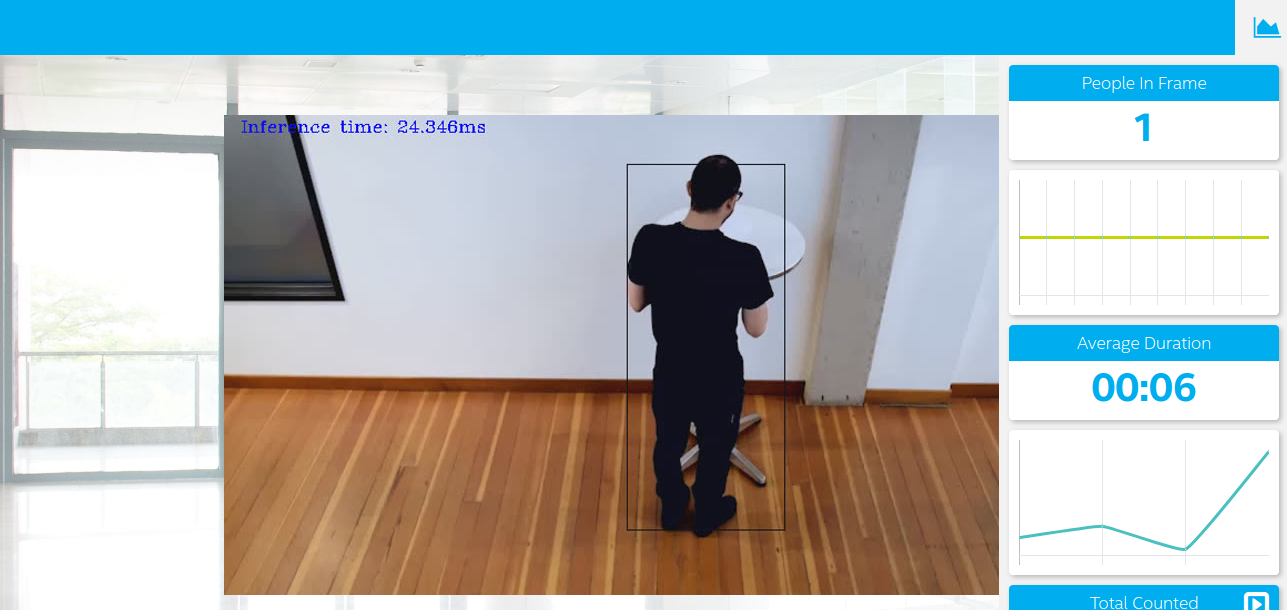
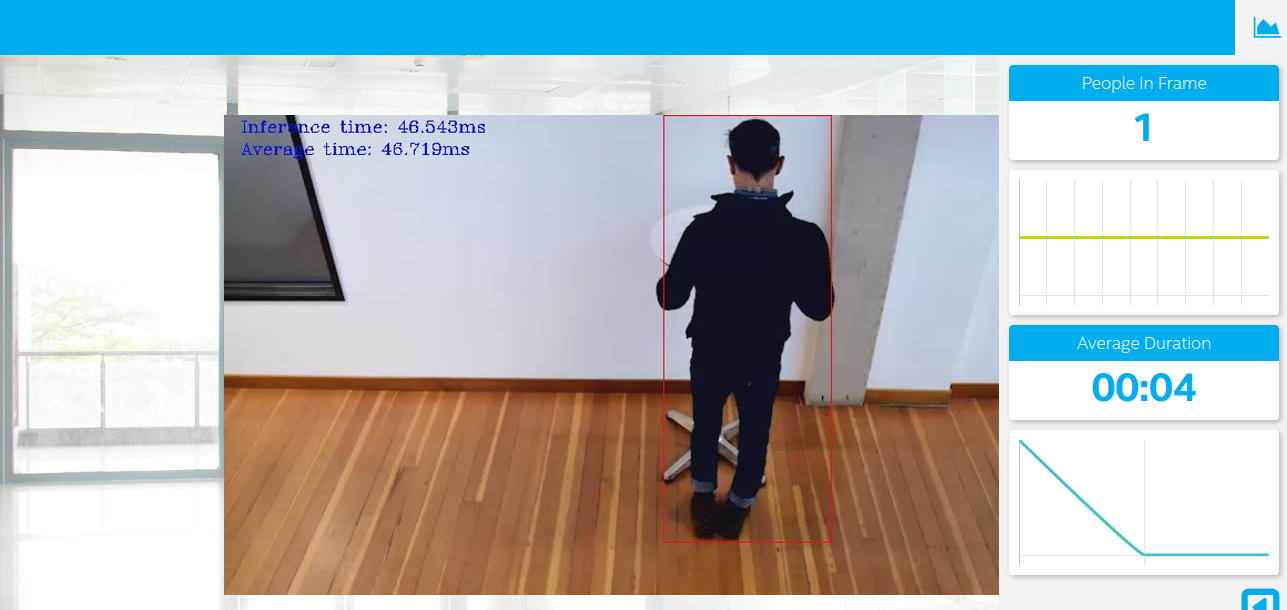
Finalizing for submission 1. Adding bash script to download and convert all used models 2. Modified the stats shown on table in writeup 3. Made code usable in both local and workstation (version difference caused errors)

diff --git a/main.py b/main.py
@@ -42,6 +42,7 @@ MQTT_HOST = IPADDRESS
 MQTT_PORT = 3001
 MQTT_KEEPALIVE_INTERVAL = 60
 
+CPU_EXTENSION = "/opt/intel/openvino/deployment_tools/inference_engine/lib/intel64/libcpu_extension_sse4.so"
 
 def build_argparser():
     """
@@ -55,7 +56,7 @@ def build_argparser():
     parser.add_argument("-i", "--input", required=True, type=str,
                         help="Path to image or video file")
     parser.add_argument("-l", "--cpu_extension", required=False, type=str,
-                        default=None,
+                        default=CPU_EXTENSION,
                         help="MKLDNN (CPU)-targeted custom layers."
                              "Absolute path to a shared library with the"
                              "kernels impl.")
@@ -121,11 +122,12 @@ def infer_on_stream(args, client):
     single_img_flag = False
     total_count = 0
     total_frames = 0
+    total_inference_time = 0
     last_count = 0
     duration_time = 0
     cur_request_id = 0
     ### TODO: Load the model through `infer_network` ###
-    infer_network.load_model(args.model, args.device)
+    infer_network.load_model(args.model, args.device, args.cpu_extension)
     net_input_shape = infer_network.get_input_shape()
     ### TODO: Handle the input stream ###
     video_file = args.input
@@ -174,6 +176,7 @@ def infer_on_stream(args, client):
         if infer_network.wait(cur_request_id) == 0:
             stop_time = time.time() - start_time
             result = infer_network.get_output(cur_request_id)
+            total_frames = total_frames +1
             # print(result)
             # print(result.shape)
             
@@ -182,6 +185,9 @@ def infer_on_stream(args, client):
             # print(classes.shape)
             inference_message = "Inference time: {:.3f}ms".format(stop_time * 1000)
             cv2.putText(frame, inference_message, (15, 15), cv2.FONT_HERSHEY_COMPLEX, 0.5, (255,0,0), 1)
+            total_inference_time =  total_inference_time + stop_time * 1000
+            avg_message = "Average time: {:.3f}ms".format(total_inference_time/total_frames)
+            cv2.putText(frame, avg_message, (15, 35), cv2.FONT_HERSHEY_COMPLEX, 0.5, (255,0,0), 1)
             
             ### TODO: Extract any desired stats from the results ###
             ### TODO: Calculate and send relevant information on ###

diff --git a/inference.py b/inference.py
@@ -56,12 +56,16 @@ class Network:
         self.plugin = IECore()
 
         # Add a CPU extension, if applicable
-        if cpu_extension and "CPU" in device:
+        if os.path.isfile(cpu_extension)  and "CPU" in device:
             self.plugin.add_extension(cpu_extension, device)
 
         # Read the IR as a IENetwork
-        # self.network = IENetwork(model=model_xml, weights=model_bin)
-        self.network = self.plugin.read_network(model=model_xml, weights=model_bin)
+        if os.path.isfile(cpu_extension) :
+            # considring its old openvino versio which requires extentions to be loaded
+            self.network = IENetwork(model=model_xml, weights=model_bin)
+        else:
+            # new openvino versions dont need extention
+            self.network = self.plugin.read_network(model=model_xml, weights=model_bin)
         # Load the IENetwork into the plugin
         self.exec_network = self.plugin.load_network(self.network, device)
 

diff --git a/WRITEUP.md b/WRITEUP.md
@@ -17,8 +17,12 @@ cd models/
 wget http://download.tensorflow.org/models/object_detection/ssd_mobilenet_v1_coco_2018_01_28.tar.gz
 tar -xvzf ssd_mobilenet_v1_coco_2018_01_28.tar.gz
 cd ssd_mobilenet_v1_coco_2018_01_28
-python3 /opt/intel/openvino/deployment_tools/model_optimizer/mo_tf.py --input_model=frozen_inference_graph.pb --transformations_config /opt/intel/openvino/deployment_tools/model_optimizer/extensions/front/tf/ssd_v2_support.json --tensorflow_object_detection_api_pipeline_config pipeline.config --reverse_input_channels --input_shape=[1,300,300,3] --input=image_tensor
 
+# for newer version of openvino
+python3 /opt/intel/openvino/deployment_tools/model_optimizer/mo_tf.py --input_model=frozen_inference_graph.pb --tensorflow_custom_operations_config_update /opt/intel/openvino/deployment_tools/model_optimizer/extensions/front/tf/ssd_v2_support.json --tensorflow_object_detection_api_pipeline_config pipeline.config --reverse_input_channels --input_shape=[1,300,300,3] --input=image_tensor
+
+# for older version of openvino (openvino_2019.3.376)
+python3  /opt/intel/openvino/deployment_tools/model_optimizer/mo.py --input_model=frozen_inference_graph.pb  --tensorflow_object_detection_api_pipeline_config pipeline.config --reverse_input_channels --input_shape=[1,300,300,3] --input=image_tensor --output=detection_scores,detection_boxes,num_detections --tensorflow_use_custom_operations_config /opt/intel/openvino/deployment_tools/model_optimizer/extensions/front/tf/ssd_v2_support.json
 ```
 
 ### Converting SSD MobileNet V2 COCO
@@ -28,7 +32,12 @@ cd models/
 wget http://download.tensorflow.org/models/object_detection/ssd_mobilenet_v2_coco_2018_03_29.tar.gz
 tar -xvzf ssd_mobilenet_v2_coco_2018_03_29.tar.gz
 cd ssd_mobilenet_v2_coco_2018_03_29
+
+# for newer version of openvino
 python3 /opt/intel/openvino/deployment_tools/model_optimizer/mo_tf.py --input_model=frozen_inference_graph.pb --transformations_config /opt/intel/openvino/deployment_tools/model_optimizer/extensions/front/tf/ssd_v2_support.json --tensorflow_object_detection_api_pipeline_config pipeline.config --reverse_input_channels --input_shape=[1,300,300,3] --input=image_tensor --output=detection_classes,detection_scores,detection_boxes,num_detections
+
+# for older version of openvino (openvino_2019.3.376)
+python3 /opt/intel/openvino/deployment_tools/model_optimizer/mo.py --input_model=frozen_inference_graph.pb --tensorflow_use_custom_operations_config /opt/intel/openvino/deployment_tools/model_optimizer/extensions/front/tf/ssd_v2_support.json --tensorflow_object_detection_api_pipeline_config pipeline.config --reverse_input_channels --input_shape=[1,300,300,3] --input=image_tensor --output=detection_classes,detection_scores,detection_boxes,num_detections
 
 ```
 
@@ -39,7 +48,12 @@ cd models/
 wget http://download.tensorflow.org/models/object_detection/faster_rcnn_inception_v2_coco_2018_01_28.tar.gz
 tar -xvzf faster_rcnn_inception_v2_coco_2018_01_28.tar.gz
 cd faster_rcnn_inception_v2_coco_2018_01_28
-python3 /opt/intel/openvino/deployment_tools/model_optimizer/mo_tf.py --input_model frozen_inference_graph.pb --tensorflow_object_detection_api_pipeline_config pipeline.config --transformations_config /opt/intel/openvino/deployment_tools/model_optimizer/extensions/front/tf/faster_rcnn_support.json --reverse_input_channels --input_shape=[1,600,1024,3] --input=image_tensor --output=detection_scores,detection_boxes,num_detections
+
+# for newer version of openvino
+python3 /opt/intel/openvino/deployment_tools/model_optimizer/mo_tf.py --input_model frozen_inference_graph.pb --tensorflow_object_detection_api_pipeline_config pipeline.config --transformations_config /opt/intel/openvino/deployment_tools/model_optimizer/extensions/front/tf/faster_rcnn_support.json --reverse_input_channels --input_shape=[1,600,1024,3] --input=image_tensor --output=detection_scores,detection_boxes,num_detections --data_type=FP16
+
+# for older version of openvino (openvino_2019.3.376)
+python3 /opt/intel/openvino/deployment_tools/model_optimizer/mo_tf.py --input_model frozen_inference_graph.pb --tensorflow_object_detection_api_pipeline_config pipeline.config --tensorflow_use_custom_operations_config /opt/intel/openvino/deployment_tools/model_optimizer/extensions/front/tf/faster_rcnn_support.json --reverse_input_channels --input_shape=[1,600,1024,3] --input=image_tensor --output=detection_scores,detection_boxes,num_detections --data_type=FP16
 
 ```
 
@@ -52,24 +66,27 @@ To convert SSD ResNet50 FPN COCO to IR run the following commands
 cd models/
 wget http://download.tensorflow.org/models/object_detection/ssd_resnet50_v1_fpn_shared_box_predictor_640x640_coco14_sync_2018_07_03.tar.gz
 tar -xvzf ssd_resnet50_v1_fpn_shared_box_predictor_640x640_coco14_sync_2018_07_03.tar.gz
-cd ssd_mobilenet_v1_fpn_shared_box_predictor_640x640_coco14_sync_2018_07_03
-python3 /opt/intel/openvino/deployment_tools/model_optimizer/mo_tf.py --input_model=frozen_inference_graph.pb --transformations_config /opt/intel/openvino/deployment_tools/model_optimizer/extensions/front/tf/ssd_v2_support.json --tensorflow_object_detection_api_pipeline_config pipeline.config --reverse_input_channels --input_shape=[1,640,640,3] --input=image_tensor --output=detection_scores,detection_boxes,num_detections
+cd ssd_resnet50_v1_fpn_shared_box_predictor_640x640_coco14_sync_2018_07_03
+# for newer version of openvino
+python3 /opt/intel/openvino/deployment_tools/model_optimizer/mo_tf.py --input_model=frozen_inference_graph.pb --transformations_config /opt/intel/openvino/deployment_tools/model_optimizer/extensions/front/tf/ssd_v2_support.json --tensorflow_object_detection_api_pipeline_config pipeline.config --reverse_input_channels --input_shape=[1,640,640,3] --input=image_tensor --output=detection_scores,detection_boxes,num_detections  --data_type=FP16
 
+# for older version of openvino (openvino_2019.3.376)
+python3 /opt/intel/openvino/deployment_tools/model_optimizer/mo.py --input_model=frozen_inference_graph.pb --tensorflow_use_custom_operations_config /opt/intel/openvino/deployment_tools/model_optimizer/extensions/front/tf/ssd_v2_support.json --tensorflow_object_detection_api_pipeline_config pipeline.config --reverse_input_channels --input_shape=[1,640,640,3] --input=image_tensor --output=detection_scores,detection_boxes,num_detections  --data_type=FP16
 ```
 
 ## Comparing Model Performance
 
 
-| Model name  |   Model size  | COCO mAP[^1] | Inference time |
-|-----------|-----------|---------------|---------------|
-| [SSD Mobilenet v1 coco](http://download.tensorflow.org/models/object_detection/ssd_mobilenet_v1_coco_2018_01_28.tar.gz) |  27 Mb | 21 |  ~50ms |
-| [SSD MobileNet V2 COCO](http://download.tensorflow.org/models/object_detection/ssd_mobilenet_v2_coco_2018_03_29.tar.gz) |  67 Mb | 22 |  ~80ms |
-| [SSD ResNet50 FPN COCO](http://download.tensorflow.org/models/object_detection/ssd_resnet50_v1_fpn_shared_box_predictor_640x640_coco14_sync_2018_07_03.tar.gz) |  127 Mb | 32 |  ~2000ms |
-| [Faster R-CNN Inception V2 COCO](http://download.tensorflow.org/models/object_detection/faster_rcnn_inception_v2_coco_2018_01_28.tar.gz) |  52 Mb | 28 |  ~1500ms |
-| [Intel's pretrained person-detection-retail-0013 ](https://docs.openvinotoolkit.org/latest/_models_intel_person_detection_retail_0013_description_person_detection_retail_0013.html) |  1.4 Mb | ~21 (similar to SSD Mobilenet v1 coco) |  ~70ms |
+| Model name  |   Model Precision |   Model size  | COCO mAP[^1] | Inference time |
+|-----------|-----------|-----------|---------------|---------------|
+| [SSD Mobilenet v1 coco](http://download.tensorflow.org/models/object_detection/ssd_mobilenet_v1_coco_2018_01_28.tar.gz) |   FP32  |  27 Mb | 21 |  ~43ms |
+| [SSD MobileNet V2 COCO](http://download.tensorflow.org/models/object_detection/ssd_mobilenet_v2_coco_2018_03_29.tar.gz)  |   FP32  |  67 Mb | 22 |  ~69ms |
+| [Faster R-CNN Inception V2 COCO](http://download.tensorflow.org/models/object_detection/faster_rcnn_inception_v2_coco_2018_01_28.tar.gz)  |   FP16  |  27 Mb | 28 |  ~1259ms |
+| [SSD ResNet50 FPN COCO](http://download.tensorflow.org/models/object_detection/ssd_resnet50_v1_fpn_shared_box_predictor_640x640_coco14_sync_2018_07_03.tar.gz)  |   FP16  |  103 Mb | 32 |  ~2590ms |
+| [Intel's pretrained person-detection-retail-0013 ](https://docs.openvinotoolkit.org/latest/_models_intel_person_detection_retail_0013_description_person_detection_retail_0013.html)  |   FP32  |  1.4 Mb | ~21 (similar to SSD Mobilenet v1 coco) |  ~47ms |
 
 Note :
-1. the inference time is round off time taken to infer a frame on an old intel corei5 8Gb (ubuntu) machine. Inference time can vary based on performance of a machine.
+1. the inference time is average time taken to infer a video frame on a virtual machine provided by udacity for classroom exercise. Inference time can vary based on performance of a machine.
 1. The accuracy is taken from [link](https://github.com/tensorflow/models/blob/master/research/object_detection/g3doc/detection_model_zoo.md). So it is pre-conversion accuracy.
 
 ## Assess Model Use Cases
